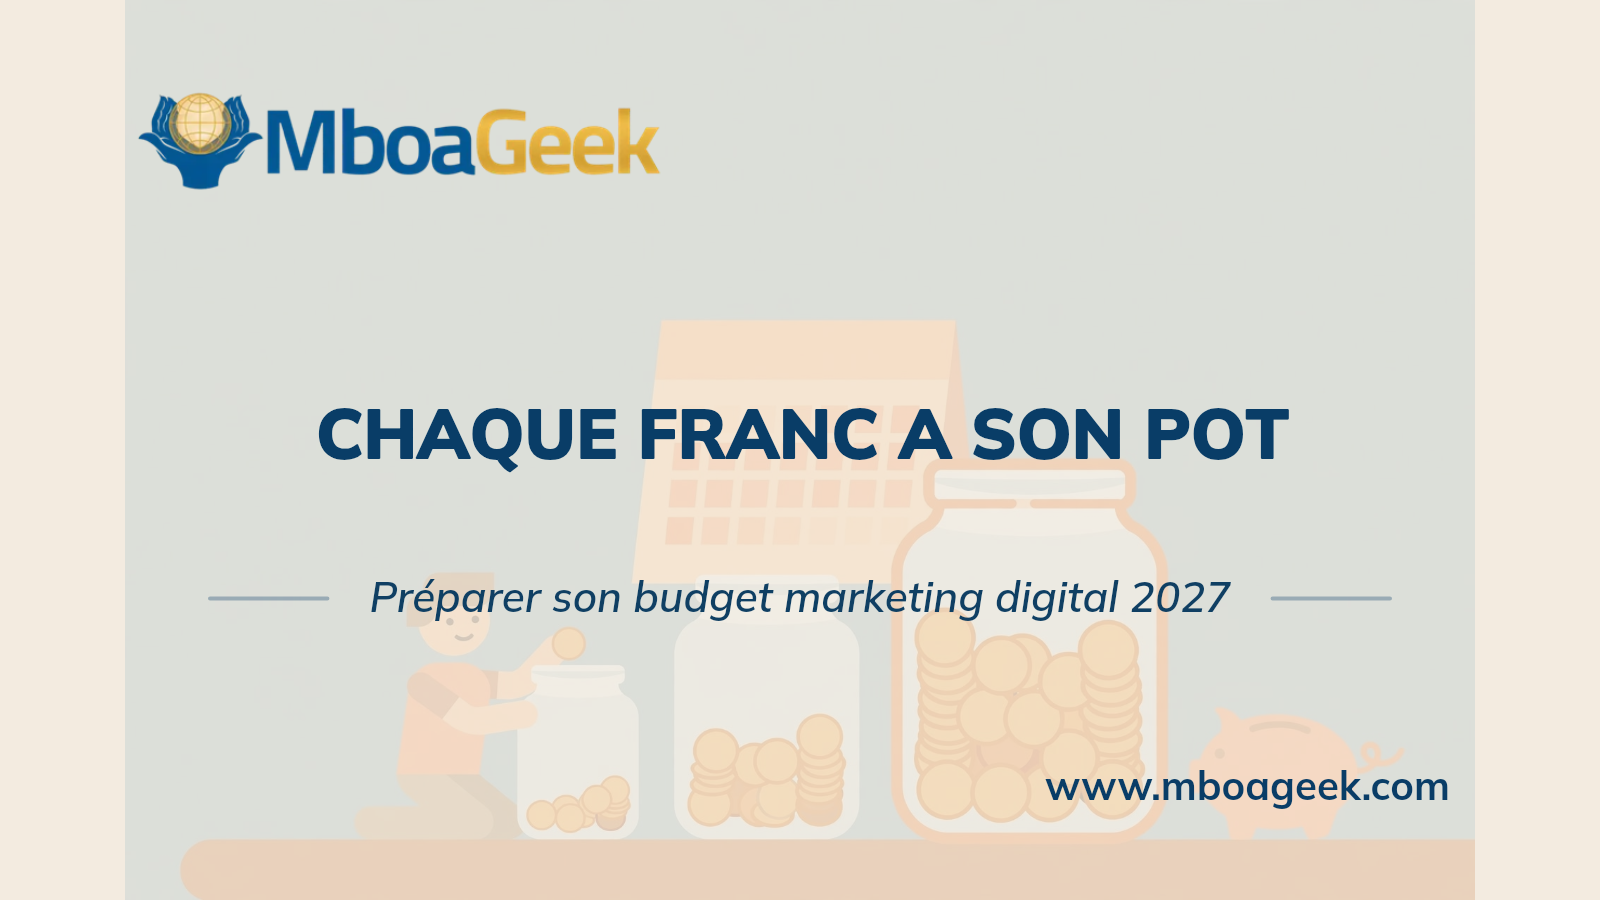
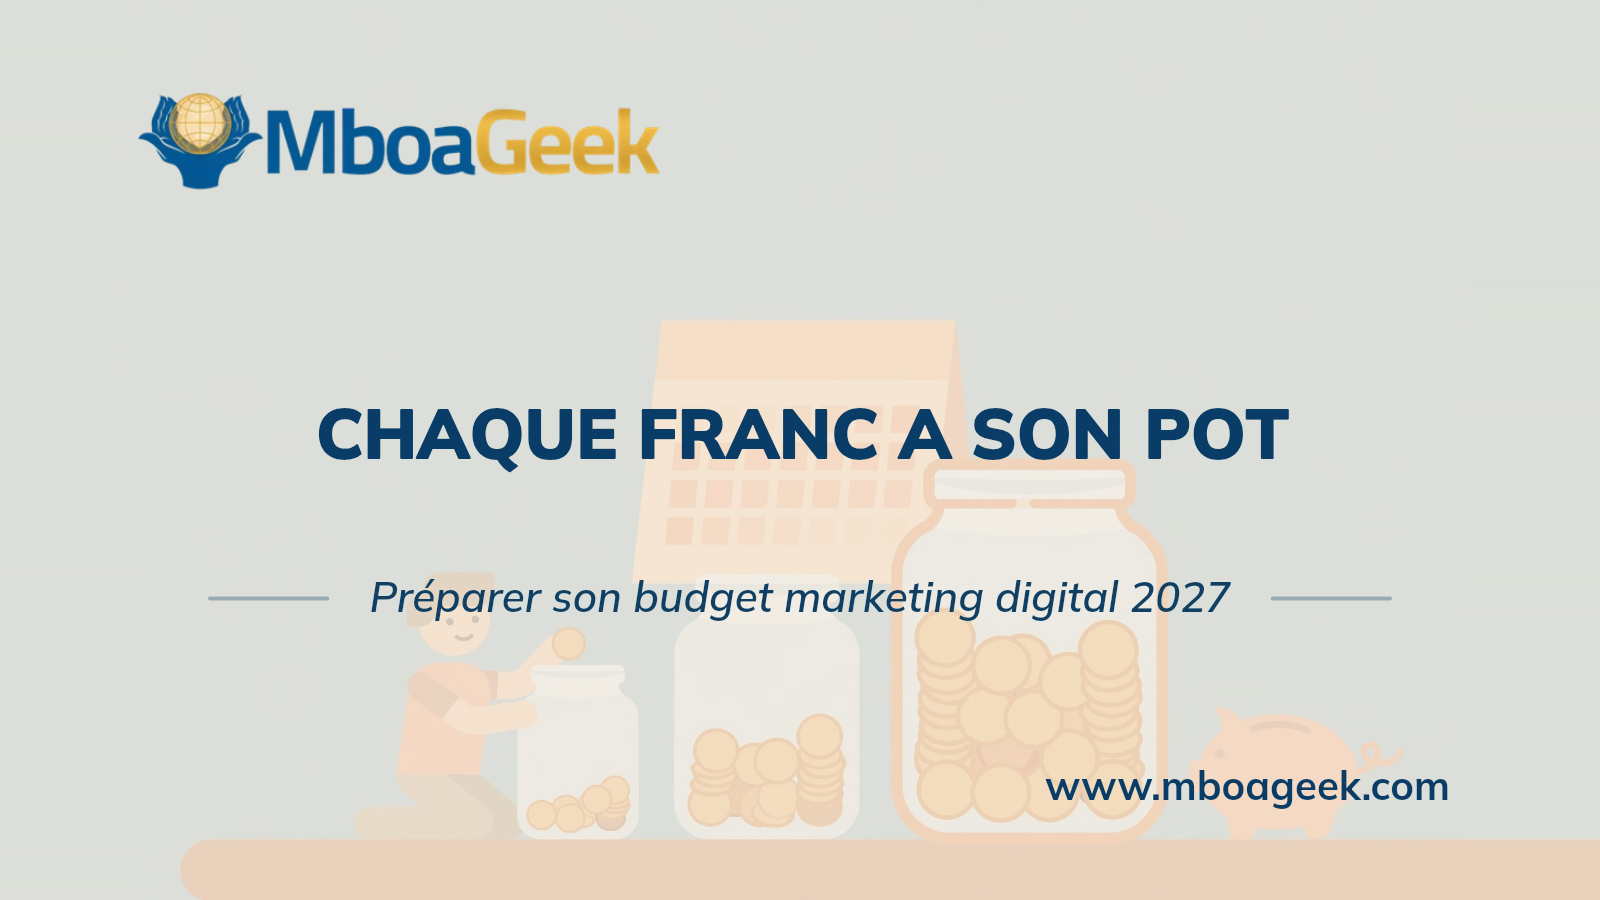
fix: extend image edges to fill side bands in contain mode

Changed region(s): [[0.9062, 0.9333, 1.0, 1.0]]

diff --git a/build.js b/build.js
@@ -126,6 +126,17 @@ function drawBase(ctx, img, W, H, cfg) {
   if (cfg.fit === "contain") {
     ctx.fillStyle = cfg.background;
     ctx.fillRect(0, 0, W, H);
+    // Bandes latérales/haut-bas : on étire la ligne de pixels du bord de l'image
+    // pour prolonger son fond uni (sinon le rectangle de l'image se voit sur le crème).
+    const x = (W - w) / 2, y = (H - h) / 2;
+    if (x > 0) {
+      ctx.drawImage(img, 0, 0, 1, img.height, 0, y, x + 1, h);
+      ctx.drawImage(img, img.width - 1, 0, 1, img.height, x + w - 1, y, x + 1, h);
+    }
+    if (y > 0) {
+      ctx.drawImage(img, 0, 0, img.width, 1, x, 0, w, y + 1);
+      ctx.drawImage(img, 0, img.height - 1, img.width, 1, x, y + h - 1, w, y + 1);
+    }
   }
   ctx.drawImage(img, (W - w) / 2, (H - h) / 2, w, h);
 }
